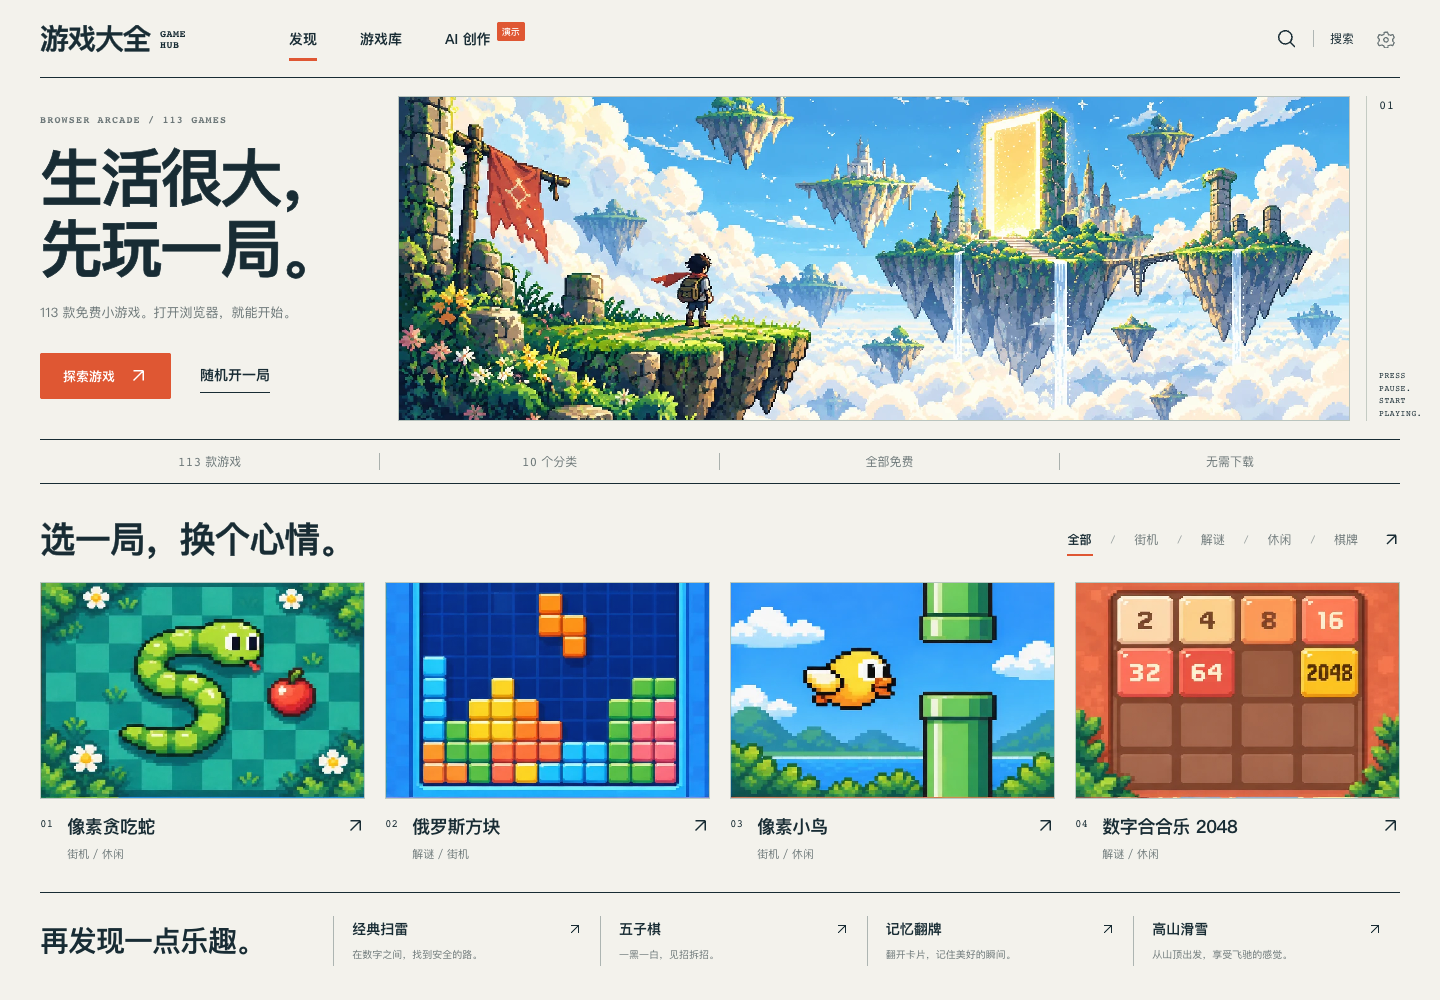
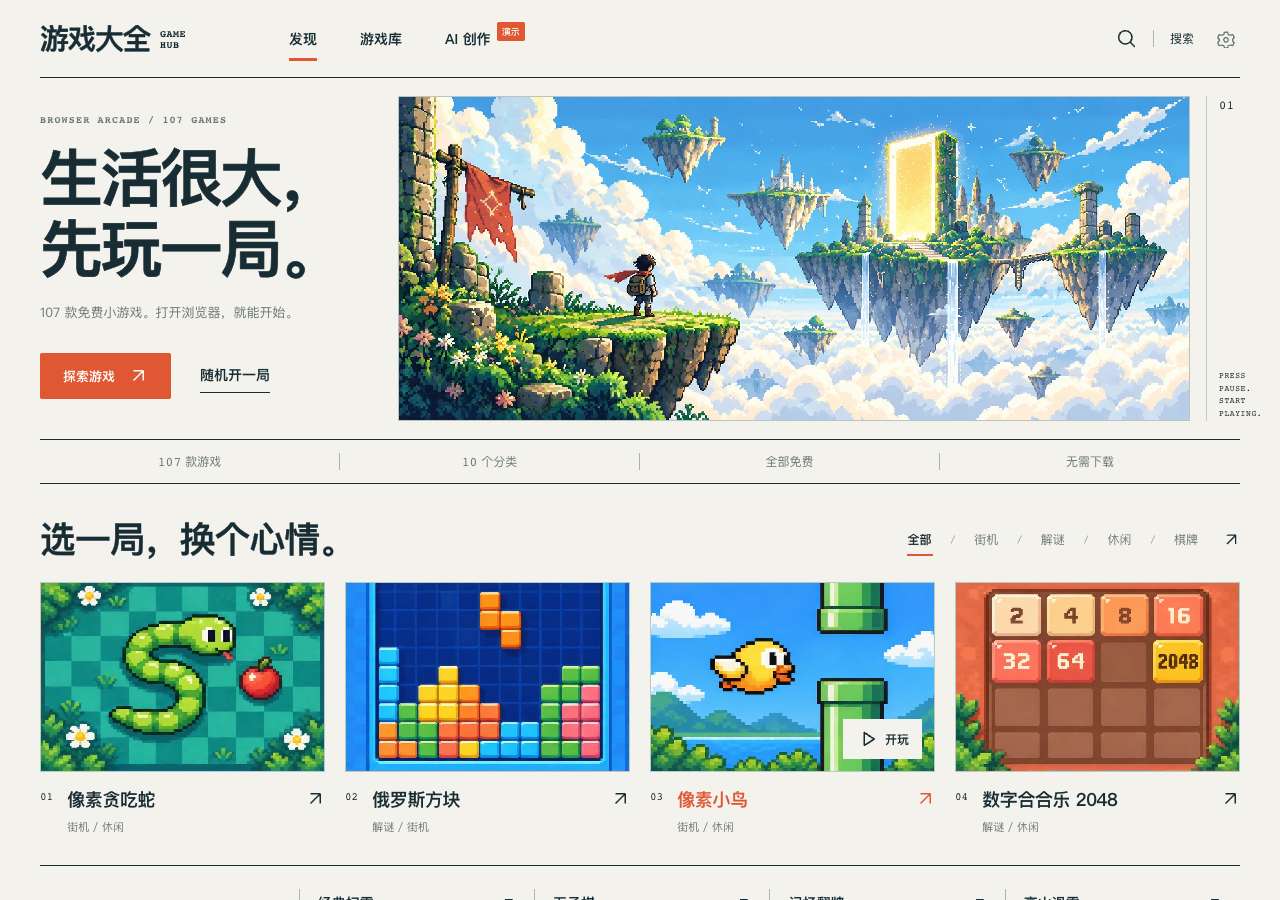
Record live catalog verification and pruning audit [skip ci]

diff --git a/PROJECT_MEMORY.md b/PROJECT_MEMORY.md
@@ -1,6 +1,6 @@
 # 项目记忆
 
-更新日期：2026-10-16（累计 44 款卡通像素改造，正式目录整理为 107 款，最终发布核验中）
+更新日期：2026-10-16（累计 44 款卡通像素改造，正式目录 107 款，已发布并核验）
 
 ## 再十款精细改造与重复玩法筛选（2026-10-16）
 
@@ -8,7 +8,7 @@
 - 新改造 ballsort、lianliankan、lightsout、picross、pipeconnect、slidetile、hanoi、fruitcut、bigfish、crossy，累计 44 款，沿用原游戏名与路径。以糖豆、像素野餐图案、灯罐、刺绣针脚、铜水管、木质车票、糖霜圆环、果汁铺、珊瑚海、野餐小鸡为主题；实际角色与操作物件均绘制，不只换外框。
 - 连连看 30 格/18 牌导致 NaN、彩球无混色、管型不支持通关、汉诺塔取消持盘丢盘、大鱼视觉大小不等于真实体型等旧问题同步修复。回归与真实试玩见 docs/verification-storybook-ten-2026-10-16.md。
 - 十款先以 e8df757 发布，Actions 38916642946 成功，线上十款源码哈希一致。目录初筛覆盖 113 款说明，疑似重复组复核代码；移出 racedodge、tabletennis、digitspan、memorypath、numchain、picrotate，共 6 款，剩余 107 款 / 10 分类。源文件原样移到 archive/retired-games/2026-10-16/，保留恢复能力；详情旧链接和 standalone 旧链接转向保留游戏。清单和证据见 docs/gameplay-audit-2026-10-16.md。
-- 附带修复保留游戏 memorymatrix 缺少过关递增、分数不增长，并清除重开旧回调。竞速 AI 创作演示示例由下架的 racedodge 改为 skiing。最终目录发布核验待补。
+- 附带修复保留游戏 memorymatrix 缺少过关递增、分数不增长，并清除重开旧回调。竞速 AI 创作演示示例由下架的 racedodge 改为 skiing。最终代码 3e0cdb3 已推送 main，Actions 38919962252 构建与部署成功。正式站 107 张卡片、12 个旧链接、新十款启动、竞速演示与矩阵四轮通关均通过；44 款改造加矩阵共 45 个 HTML 哈希一致，6 个旧入口对应跳转页，旧 meta 均 404。项目 README、记忆、全量 113 款审查台账均已更新。
 
 ## 可爱程度回归：再十款改造（2026-10-16）
 

diff --git a/docs/gameplay-audit-2026-10-16.md b/docs/gameplay-audit-2026-10-16.md
@@ -172,4 +172,6 @@
 - 十款精细改造已先发布：e8df757，GitHub Actions 38916642946 成功，正式站十款 HTML 与本地 SHA-256 全部一致。
 - 完整构建通过：107 款静态校验、106 款初始化冒烟（shellgame 原有 mock 跳过）、四组玩法回归、目录与归档检查通过。六款归档的 12 个 HTML/meta 文件与 e8df757 逐字节一致。
 - 构建后浏览器验证：实际 107 张目录卡片；六个详情旧链接与六个独立旧入口均跳到有效游戏；六个移出游戏名称搜索无结果；新十款门户均可启动；竞速创作演示使用高山滑雪；记忆矩阵实际连续四关升至第 5 关、分数 400，无脚本异常。
-- 最终 GitHub Pages 发布与正式站复验待补。
+- 最终代码提交 **3e0cdb3**，GitHub Pages [工作流 38919962252](https://github.com/awiggy/game-hub/actions/runs/38919962252) 构建与部署成功。正式站实际显示 107 张卡片；12 个旧链接、十款门户启动、竞速演示与记忆矩阵四轮复验全部通过，无浏览器脚本异常。
+- 正式站 44 款已改造游戏与记忆矩阵共 45 个 HTML 的 SHA-256 均与本地一致；6 个旧入口与构建跳转页一致，6 个移出游戏的旧 meta.json 均返回 404；首页加载本轮门户资源。
+- 在线地址：https://awiggy.github.io/game-hub/ 。完整检查不等同对其余所有游戏的完整通关认证。

diff --git a/docs/verification-storybook-ten-2026-10-16.md b/docs/verification-storybook-ten-2026-10-16.md
@@ -27,3 +27,5 @@
 - 数字华容道浏览器覆盖移动和计时，完成状态由实际脚本回归构造临近完成盘验证；不声称本轮浏览器解完随机 120 步局面。大鱼/横穿车流失败条件由脚本边界回归覆盖。
 
 构建成功；113 款静态检查、112 款初始化冒烟通过（shellgame 原有 mock 限制跳过），四组玩法回归通过。e8df757 已推送，GitHub Actions 38916642946 构建部署成功；正式站十款 HTML 与本地 SHA-256 全部一致。后续目录筛除记录见 gameplay-audit-2026-10-16.md。
+
+最终目录筛除发布 3e0cdb3 / Actions 38919962252 成功，正式站十款门户再次启动通过，累计 44 款改造 HTML 哈希核对一致。正式目录现为 107 款，六款筛除与恢复说明见 [审查报告](gameplay-audit-2026-10-16.md)。

diff --git a/README.md b/README.md
@@ -10,9 +10,9 @@
 
 ## 项目预览
 
-[![GAME HUB 实际首页：113 款浏览器小游戏、10 个分类与游戏入口](docs/images/game-hub-home.png)](https://awiggy.github.io/game-hub/)
+[![GAME HUB 实际首页：107 款浏览器小游戏、10 个分类与游戏入口](docs/images/game-hub-home.png)](https://awiggy.github.io/game-hub/)
 
-2026-10-10 截取的线上游戏大厅。点击图片进入网站；这是真实运行界面，不是概念海报。
+2026-10-16 截取的线上游戏大厅。点击图片进入网站；这是真实运行界面，不是概念海报。
 
 ## 能做什么
 
